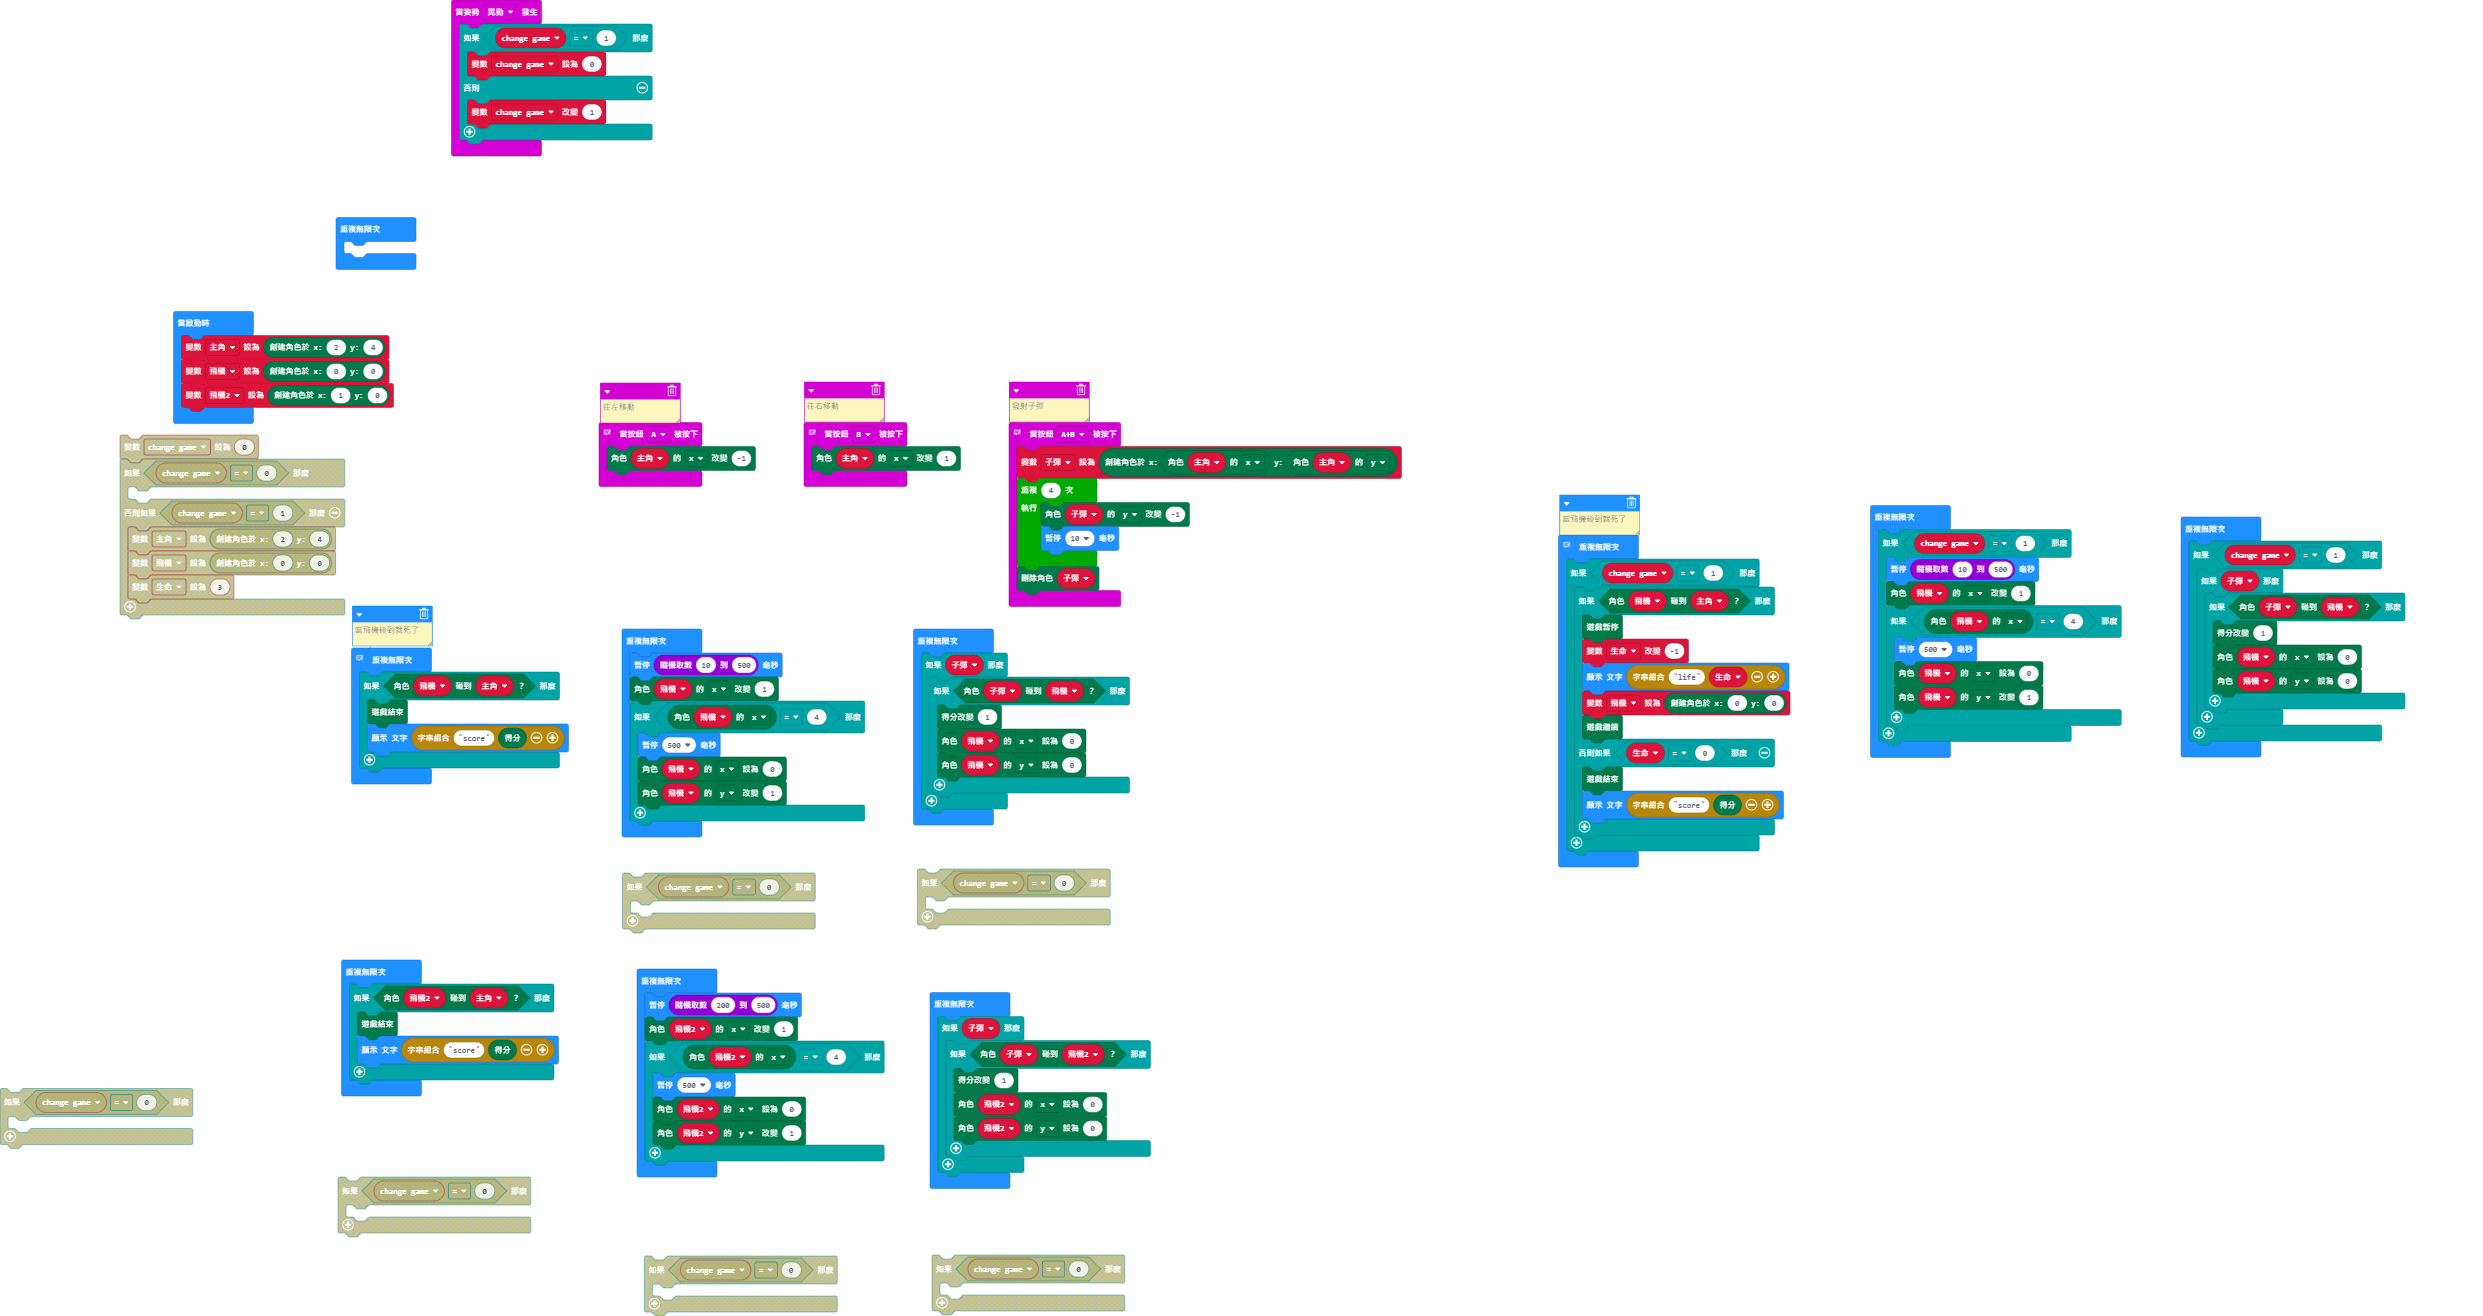
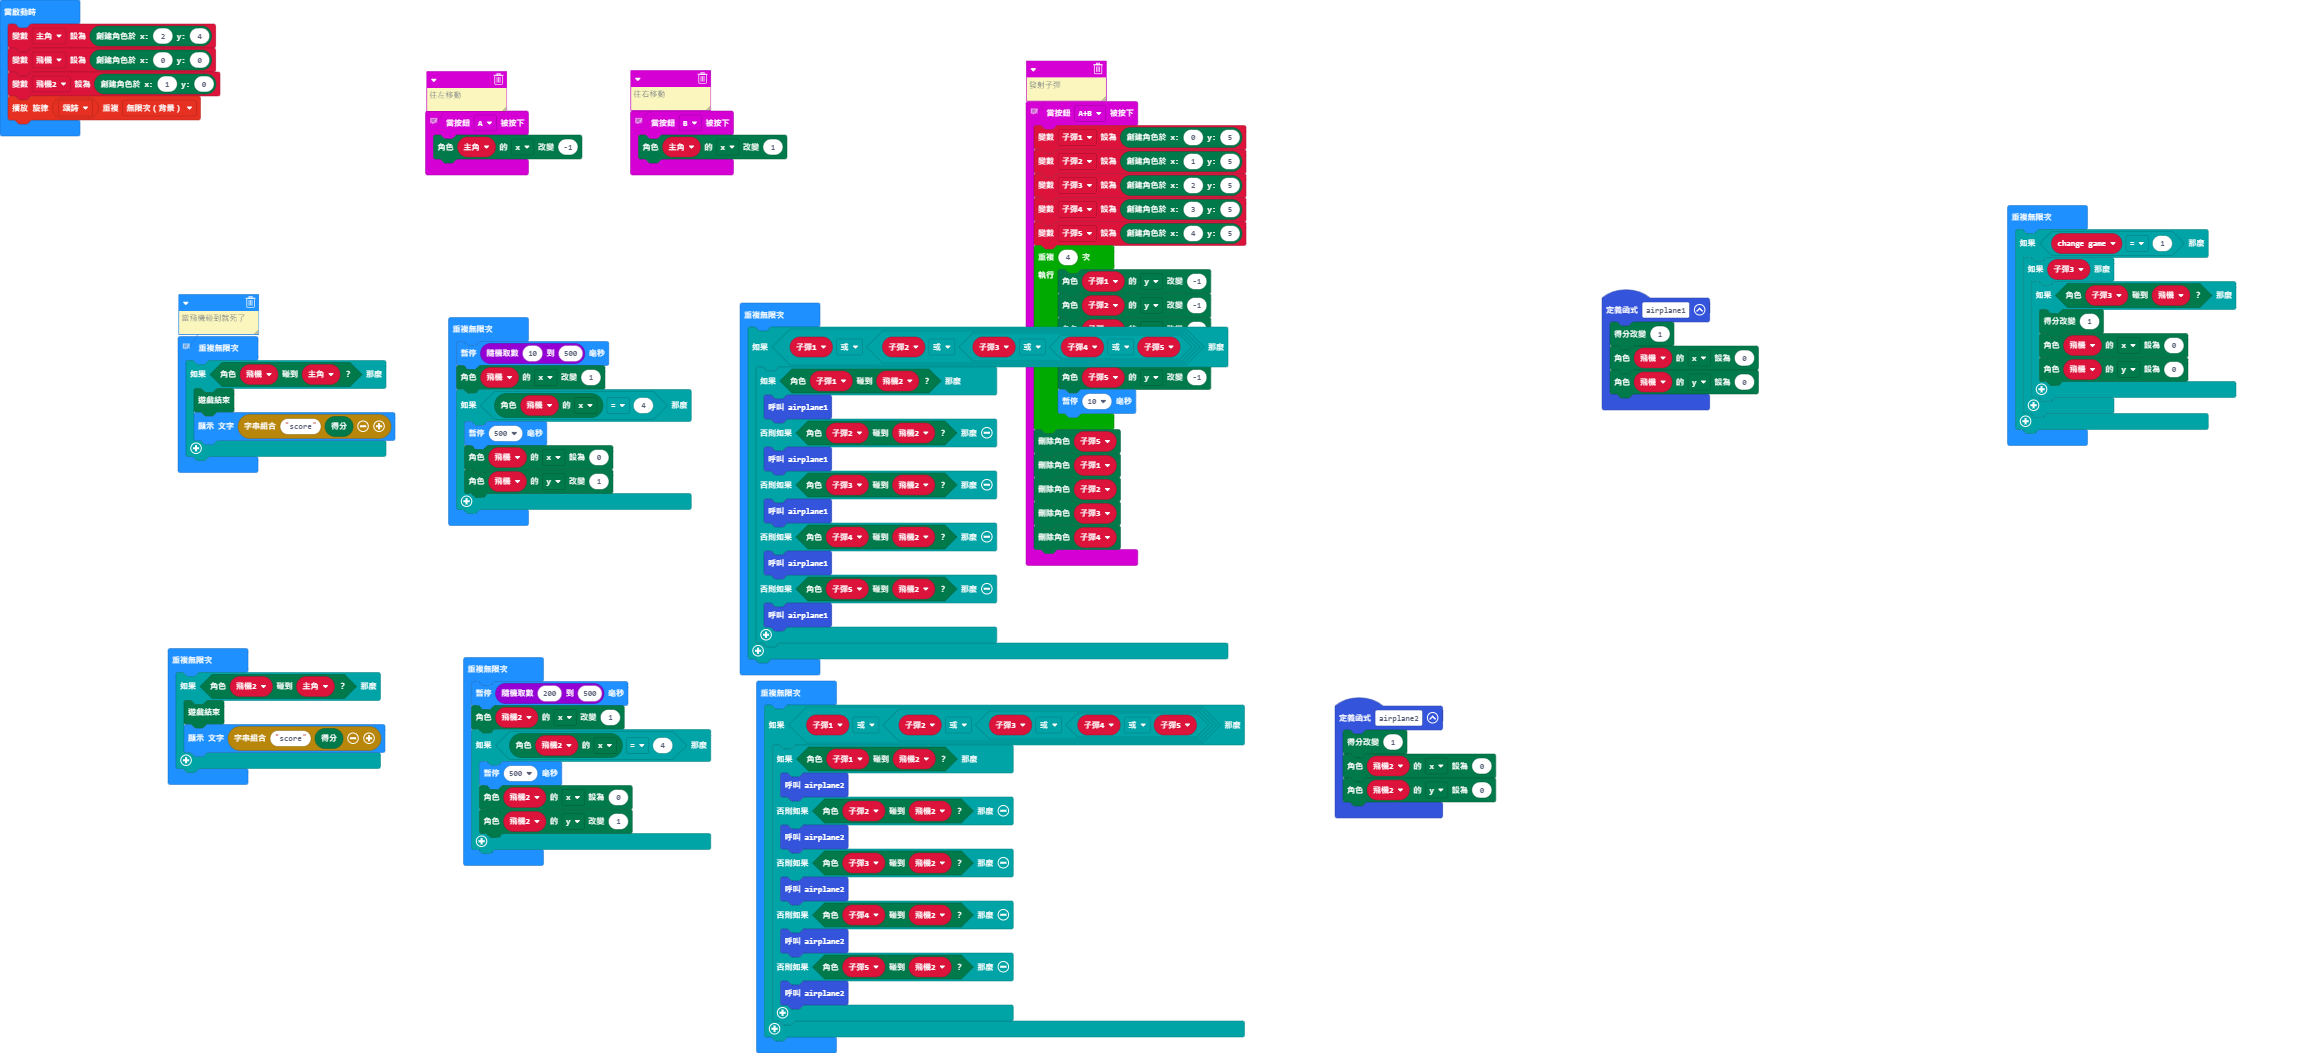
更新 main.blocks, main.ts

diff --git a/main.ts b/main.ts
@@ -2,66 +2,58 @@
 input.onButtonPressed(Button.A, function () {
     主角.change(LedSpriteProperty.X, -1)
 })
-input.onGesture(Gesture.Shake, function () {
-    if (change_game == 1) {
-        change_game = 0
-    } else {
-        change_game += 1
-    }
-})
+function airplane2 () {
+    game.addScore(1)
+    飛機2.set(LedSpriteProperty.X, 0)
+    飛機2.set(LedSpriteProperty.Y, 0)
+}
 // 發射子彈
 input.onButtonPressed(Button.AB, function () {
-    子彈 = game.createSprite(主角.get(LedSpriteProperty.X), 主角.get(LedSpriteProperty.Y))
+    子彈1 = game.createSprite(0, 5)
+    子彈2 = game.createSprite(1, 5)
+    子彈3 = game.createSprite(2, 5)
+    子彈4 = game.createSprite(3, 5)
+    子彈5 = game.createSprite(4, 5)
     for (let index = 0; index < 4; index++) {
-        子彈.change(LedSpriteProperty.Y, -1)
+        子彈1.change(LedSpriteProperty.Y, -1)
+        子彈2.change(LedSpriteProperty.Y, -1)
+        子彈3.change(LedSpriteProperty.Y, -1)
+        子彈4.change(LedSpriteProperty.Y, -1)
+        子彈5.change(LedSpriteProperty.Y, -1)
         basic.pause(10)
     }
-    子彈.delete()
+    子彈5.delete()
+    子彈1.delete()
+    子彈2.delete()
+    子彈3.delete()
+    子彈4.delete()
 })
 // 往右移動
 input.onButtonPressed(Button.B, function () {
     主角.change(LedSpriteProperty.X, 1)
 })
-let 生命 = 0
-let 子彈: game.LedSprite = null
-let change_game = 0
+function airplane1 () {
+    game.addScore(1)
+    飛機.set(LedSpriteProperty.X, 0)
+    飛機.set(LedSpriteProperty.Y, 0)
+}
+let 子彈5: game.LedSprite = null
+let 子彈4: game.LedSprite = null
+let 子彈3: game.LedSprite = null
+let 子彈2: game.LedSprite = null
+let 子彈1: game.LedSprite = null
+let 飛機2: game.LedSprite = null
+let 飛機: game.LedSprite = null
 let 主角: game.LedSprite = null
 主角 = game.createSprite(2, 4)
-let 飛機 = game.createSprite(0, 0)
-let 飛機2 = game.createSprite(1, 0)
+飛機 = game.createSprite(0, 0)
+飛機2 = game.createSprite(1, 0)
+music.startMelody(music.builtInMelody(Melodies.Ode), MelodyOptions.ForeverInBackground)
 basic.forever(function () {
-	
-})
-basic.forever(function () {
+    let change_game = 0
     if (change_game == 1) {
-        basic.pause(randint(10, 500))
-        飛機.change(LedSpriteProperty.X, 1)
-        if (飛機.get(LedSpriteProperty.X) == 4) {
-            basic.pause(500)
-            飛機.set(LedSpriteProperty.X, 0)
-            飛機.change(LedSpriteProperty.Y, 1)
-        }
-    }
-})
-// 當飛機碰到就死了
-basic.forever(function () {
-    if (change_game == 1) {
-        if (飛機.isTouching(主角)) {
-            game.pause()
-            生命 += -1
-            basic.showString("life" + 生命)
-            飛機 = game.createSprite(0, 0)
-            game.resume()
-        } else if (生命 == 0) {
-            game.gameOver()
-            basic.showString("score" + game.score())
-        }
-    }
-})
-basic.forever(function () {
-    if (change_game == 1) {
-        if (子彈) {
-            if (子彈.isTouching(飛機)) {
+        if (子彈3) {
+            if (子彈3.isTouching(飛機)) {
                 game.addScore(1)
                 飛機.set(LedSpriteProperty.X, 0)
                 飛機.set(LedSpriteProperty.Y, 0)
@@ -78,20 +70,26 @@ basic.forever(function () {
         飛機.change(LedSpriteProperty.Y, 1)
     }
 })
+basic.forever(function () {
+    if (子彈1 || (子彈2 || (子彈3 || (子彈4 || 子彈5)))) {
+        if (子彈1.isTouching(飛機2)) {
+            airplane1()
+        } else if (子彈2.isTouching(飛機2)) {
+            airplane1()
+        } else if (子彈3.isTouching(飛機2)) {
+            airplane1()
+        } else if (子彈4.isTouching(飛機2)) {
+            airplane1()
+        } else if (子彈5.isTouching(飛機2)) {
+            airplane1()
+        }
+    }
+})
 // 當飛機碰到就死了
 basic.forever(function () {
     if (飛機.isTouching(主角)) {
         game.gameOver()
         basic.showString("score" + game.score())
-    }
-})
-basic.forever(function () {
-    if (子彈) {
-        if (子彈.isTouching(飛機)) {
-            game.addScore(1)
-            飛機.set(LedSpriteProperty.X, 0)
-            飛機.set(LedSpriteProperty.Y, 0)
-        }
     }
 })
 basic.forever(function () {
@@ -110,11 +108,17 @@ basic.forever(function () {
     }
 })
 basic.forever(function () {
-    if (子彈) {
-        if (子彈.isTouching(飛機2)) {
-            game.addScore(1)
-            飛機2.set(LedSpriteProperty.X, 0)
-            飛機2.set(LedSpriteProperty.Y, 0)
+    if (子彈1 || (子彈2 || (子彈3 || (子彈4 || 子彈5)))) {
+        if (子彈1.isTouching(飛機2)) {
+            airplane2()
+        } else if (子彈2.isTouching(飛機2)) {
+            airplane2()
+        } else if (子彈3.isTouching(飛機2)) {
+            airplane2()
+        } else if (子彈4.isTouching(飛機2)) {
+            airplane2()
+        } else if (子彈5.isTouching(飛機2)) {
+            airplane2()
         }
     }
 })
